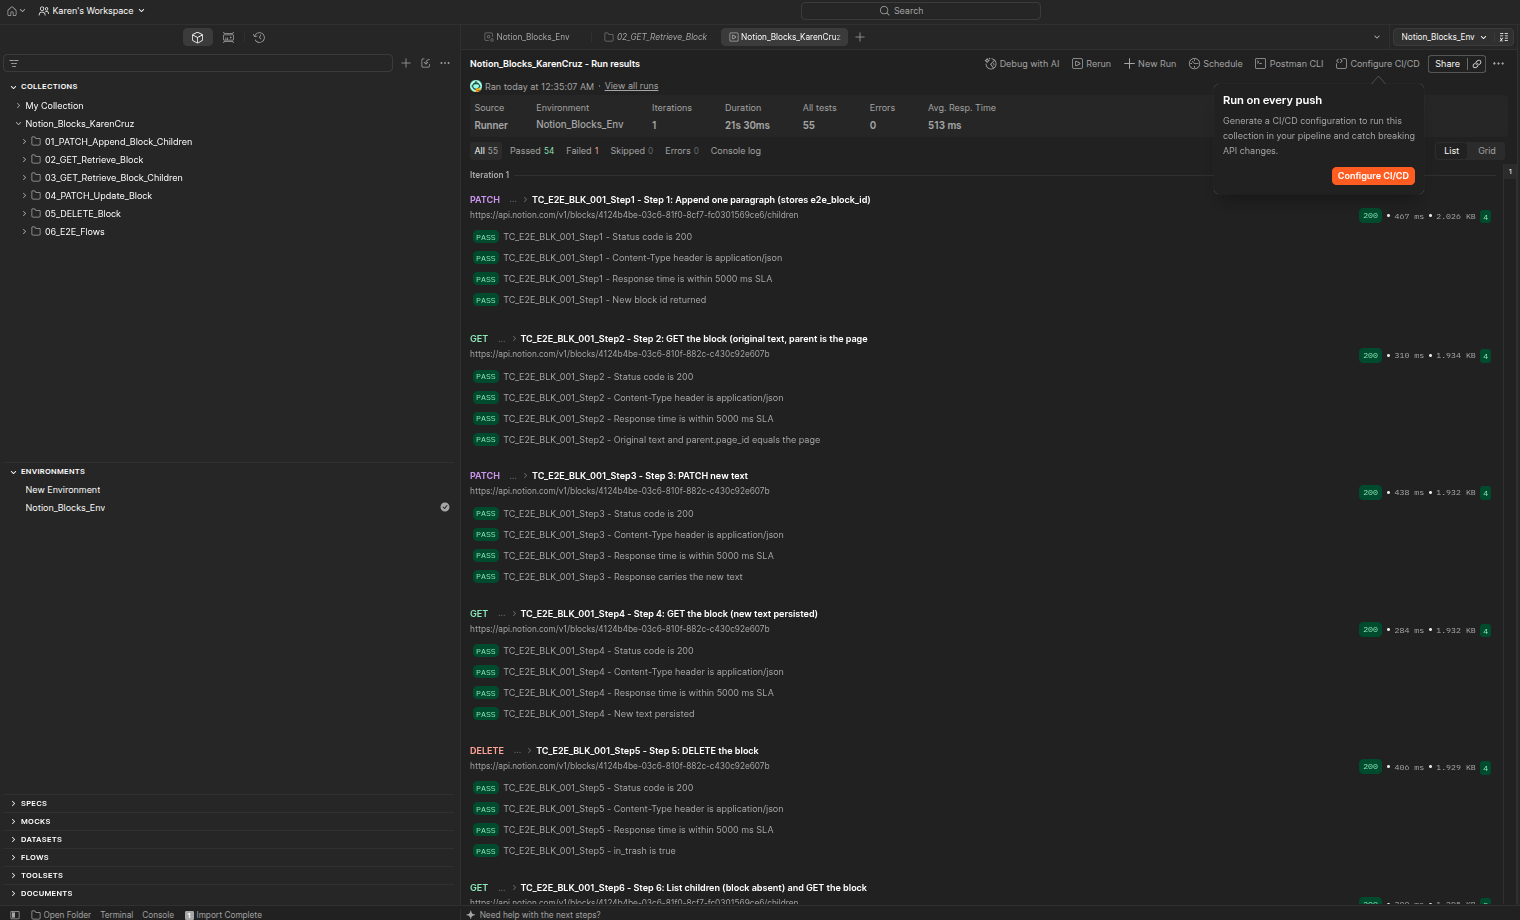
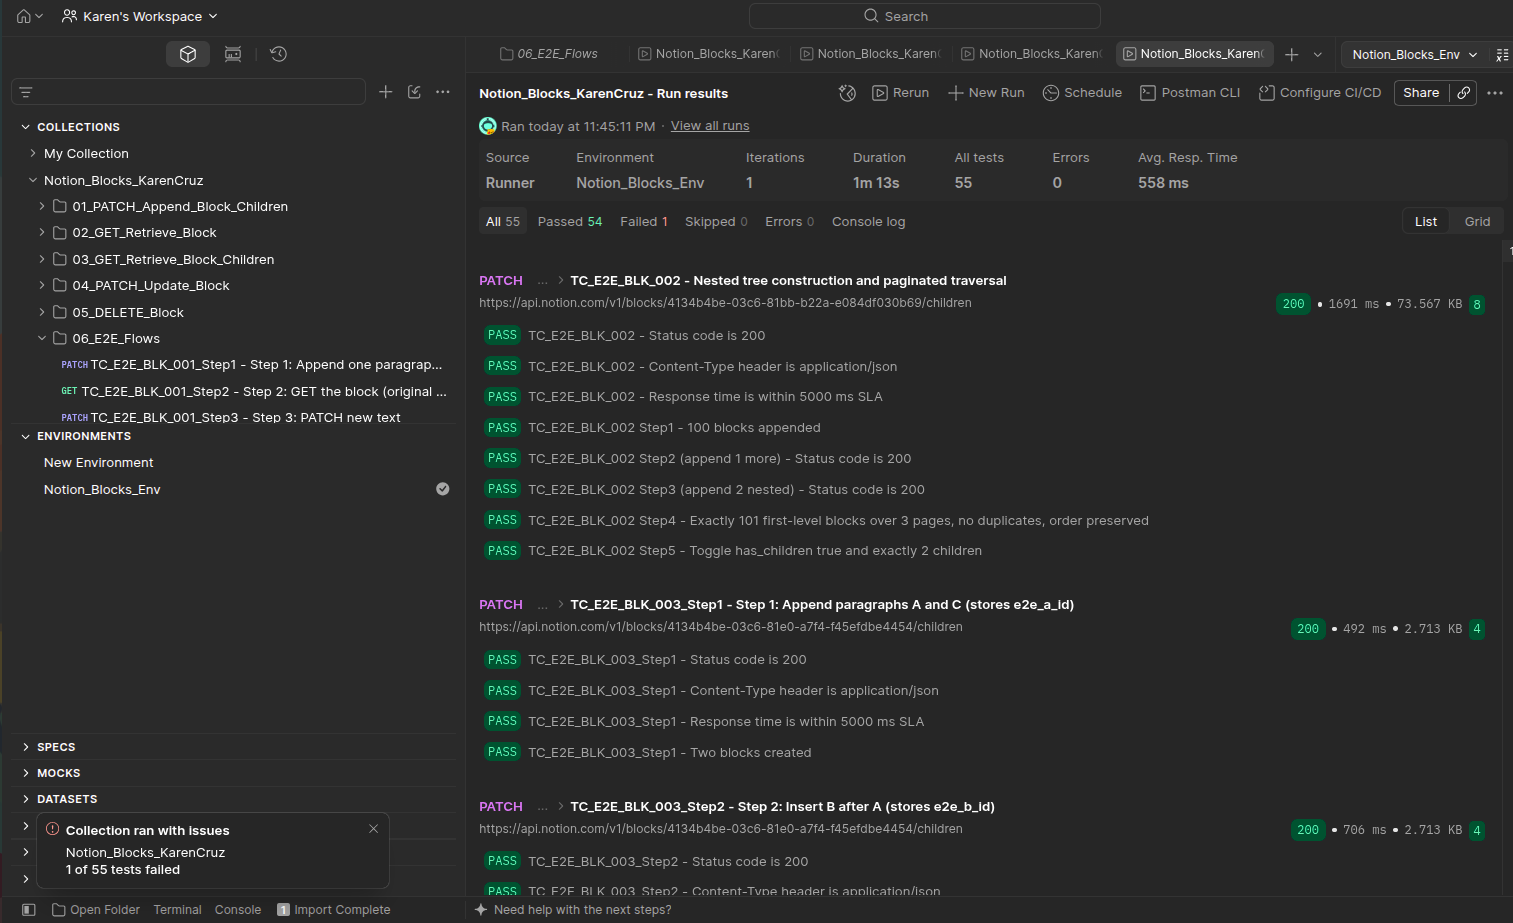
update

diff --git a/labs/lab02/Lab02_Grupo2.md b/labs/lab02/Lab02_Grupo2.md
@@ -631,25 +631,42 @@ The collection [`Lab02_Grupo2_Valentina_CRUD.postman_collection.json`](./postman
 
 ---
 
+<!-- ===================================================================== SECCION 1 — ACTIVITY #2 (reemplaza el bloque "Karen Ivonne Cruz Alvarez — Module: [Pending Implementation]") ===================================================================== -->
+Karen Ivonne Cruz Alvarez — Module: Blocks
 
-#### Karen Ivonne Cruz Alvarez — Module: Blocks
+All 72 test cases designed in Laboratory 01 (KarenCruzTests.md — 68 endpoint test cases across the five Blocks endpoints plus 4 multi-step E2E scenarios, identified as TC_BLK_* and TC_E2E_BLK_*) were implemented in Postman inside postman/karen_cruz/Notion_Blocks_KarenCruz.postman_collection.json (paired with Notion_Blocks_Env.postman_environment.json), resulting in 81 executable HTTP requests (one per test case, except TC_E2E_BLK_001 and TC_E2E_BLK_003, which are chained across 6 and 5 sequential requests), each named TC_ID - <description>. Every request verifies the response in several layers: status code, Content-Type header, response time (SLA), response body / error contract, and data integrity (a follow-up GET that confirms the change was really stored or not applied).
 
-All **72 test cases** designed in Laboratory 01 (`KarenCruzTests.md` — 68 endpoint test cases across the five `Blocks` endpoints plus 4 multi-step E2E scenarios, identified as `TC_BLK_*` and `TC_E2E_BLK_*`) were implemented in Postman inside [`postman/karen_cruz/Notion_Blocks_KarenCruz.postman_collection.json`](./postman/karen_cruz/Notion_Blocks_KarenCruz.postman_collection.json) (paired with [`Notion_Blocks_Env.postman_environment.json`](./postman/karen_cruz/Notion_Blocks_Env.postman_environment.json)), resulting in **81 executable HTTP requests** (one per test case, except `TC_E2E_BLK_001` and `TC_E2E_BLK_003`, which are chained across 6 and 5 sequential requests), each named `TC_ID - <description>`. Every request verifies the response in several layers: status code, `Content-Type` header, response time (SLA), response body / error contract, and data integrity (a follow-up `GET` that confirms the change was really stored or not applied).
+Lab 01 Suite / Endpoint	Implemented Test Case IDs	Req. Count	Multi-Layer pm.test() Verifications Implemented
+PATCH /v1/blocks/{block_id}/children
+(01_PATCH_Append_Block_Children)	TC_BLK_APP_001 – TC_BLK_APP_018	18	Status: 200, 400, 401, 403, 404, 429.
+Headers & SLA: Content-Type: application/json, responseTime < 5000 ms, Retry-After on 429.
+Body / Schema: object === "list", results[] length equal to blocks sent (100 accepted, 101 rejected), block type and order preserved, parent.page_id, has_children on nested toggles, rich_text content (2000 vs 2001 chars) stored intact; error codes "validation_error", "object_not_found", "unauthorized", "restricted_resource", "missing_version", "invalid_json", "rate_limited".
+Data integrity: GET /v1/blocks/{id}/children shows the new blocks (or no new block after a rejected request).
+GET /v1/blocks/{block_id}
+(02_GET_Retrieve_Block)	TC_BLK_GET_001 – TC_BLK_GET_011	11	Status: 200, 400, 401, 403, 404.
+Headers & SLA: application/json, < 5000 ms.
+Body / Schema: object === "block", id equality, 32-char compact id normalized to 36-char hyphenated, type, parent, boolean has_children (without embedded children), ISO-8601 created_time / last_edited_time, in_trash; identical object_not_found for non-existent and non-shared blocks (no enumeration leak); nil UUID 404 vs 31/33-char 400.
+GET /v1/blocks/{block_id}/children
+(03_GET_Retrieve_Block_Children)	TC_BLK_CHL_001 – TC_BLK_CHL_014	14	Status: 200, 400, 401, 403, 404.
+Headers & SLA: application/json, < 5000 ms.
+Body / Schema: object === "list", type === "block", results[] bounds (=== 1 at page_size=1, === 100 at page_size=100), boolean has_more, next_cursor (null on leaf blocks), no duplicates or gaps across pages, parent.block_id of toggle children; out-of-range page_size (0, -1, 101) and malformed start_cursor rejected with "validation_error".
+PATCH /v1/blocks/{block_id}
+(04_PATCH_Update_Block)	TC_BLK_UPD_001 – TC_BLK_UPD_014	14	Status: 200, 400, 401, 403, 404.
+Headers & SLA: application/json, < 5000 ms.
+Body / Schema: same id, updated rich_text, to_do.checked toggled, in_trash true/false round trip, last_edited_time updated; mismatched payload type, non-boolean checked, trashed block and 2001-char content rejected; error codes "validation_error", "invalid_json", "missing_version", "restricted_resource".
+Data integrity: a failed update leaves the block unchanged (verified with GET).
+DELETE /v1/blocks/{block_id}
+(05_DELETE_Block)	TC_BLK_DEL_001 – TC_BLK_DEL_011	11	Status: 200, 400, 401, 403, 404.
+Headers & SLA: application/json, < 5000 ms.
+Body / Schema: object === "block", id equality, in_trash === true, deterministic (never 500) response on repeated deletion and nil UUID; restore through PATCH {"in_trash": false} returns original content.
+Data integrity: the deleted block no longer appears in the parent's children list; rejected deletions leave the block active.
+Chained & E2E Flows
+(06_E2E_Flows)	TC_E2E_BLK_001 – TC_E2E_BLK_004	13	Cross-request state parity between append, retrieve, update, delete and restore; 101 first-level blocks collected across 3 pages with no duplicates; nested toggle with exactly 2 children; insertion order A, B, C → A, C → A, B, C using after; read-only token allowed on GET but 403 restricted_resource on every write, with content unchanged.
 
-| Lab 01 Suite / Endpoint | Implemented Test Case IDs | Req. Count | Multi-Layer `pm.test()` Verifications Implemented |
-|-------------------------|---------------------------|------------|---------------------------------------------------|
-| **`PATCH /v1/blocks/{block_id}/children`**<br>(`01_PATCH_Append_Block_Children`) | `TC_BLK_APP_001` – `TC_BLK_APP_018` | 18 | **Status:** `200`, `400`, `401`, `403`, `404`, `429`.<br>**Headers & SLA:** `Content-Type: application/json`, `responseTime < 5000 ms`, `Retry-After` on `429`.<br>**Body / Schema:** `object === "list"`, `results[]` length equal to blocks sent (`100` accepted, `101` rejected), block `type` and order preserved, `parent.page_id`, `has_children` on nested toggles, `rich_text` content (`2000` vs `2001` chars) stored intact; error codes `"validation_error"`, `"object_not_found"`, `"unauthorized"`, `"restricted_resource"`, `"missing_version"`, `"invalid_json"`, `"rate_limited"`.<br>**Data integrity:** `GET /v1/blocks/{id}/children` shows the new blocks (or no new block after a rejected request). |
-| **`GET /v1/blocks/{block_id}`**<br>(`02_GET_Retrieve_Block`) | `TC_BLK_GET_001` – `TC_BLK_GET_011` | 11 | **Status:** `200`, `400`, `401`, `403`, `404`.<br>**Headers & SLA:** `application/json`, `< 5000 ms`.<br>**Body / Schema:** `object === "block"`, `id` equality, 32-char compact id normalized to 36-char hyphenated, `type`, `parent`, boolean `has_children` (without embedded `children`), ISO-8601 `created_time` / `last_edited_time`, `in_trash`; identical `object_not_found` for non-existent and non-shared blocks (no enumeration leak); nil UUID `404` vs 31/33-char `400`. |
-| **`GET /v1/blocks/{block_id}/children`**<br>(`03_GET_Retrieve_Block_Children`) | `TC_BLK_CHL_001` – `TC_BLK_CHL_014` | 14 | **Status:** `200`, `400`, `401`, `403`, `404`.<br>**Headers & SLA:** `application/json`, `< 5000 ms`.<br>**Body / Schema:** `object === "list"`, `type === "block"`, `results[]` bounds (`=== 1` at `page_size=1`, `=== 100` at `page_size=100`), boolean `has_more`, `next_cursor` (`null` on leaf blocks), no duplicates or gaps across pages, `parent.block_id` of toggle children; out-of-range `page_size` (`0`, `-1`, `101`) and malformed `start_cursor` rejected with `"validation_error"`. |
-| **`PATCH /v1/blocks/{block_id}`**<br>(`04_PATCH_Update_Block`) | `TC_BLK_UPD_001` – `TC_BLK_UPD_014` | 14 | **Status:** `200`, `400`, `401`, `403`, `404`.<br>**Headers & SLA:** `application/json`, `< 5000 ms`.<br>**Body / Schema:** same `id`, updated `rich_text`, `to_do.checked` toggled, `in_trash` true/false round trip, `last_edited_time` updated; mismatched payload type, non-boolean `checked`, trashed block and `2001`-char content rejected; error codes `"validation_error"`, `"invalid_json"`, `"missing_version"`, `"restricted_resource"`.<br>**Data integrity:** a failed update leaves the block unchanged (verified with `GET`). |
-| **`DELETE /v1/blocks/{block_id}`**<br>(`05_DELETE_Block`) | `TC_BLK_DEL_001` – `TC_BLK_DEL_011` | 11 | **Status:** `200`, `400`, `401`, `403`, `404`.<br>**Headers & SLA:** `application/json`, `< 5000 ms`.<br>**Body / Schema:** `object === "block"`, `id` equality, `in_trash === true`, deterministic (never `500`) response on repeated deletion and nil UUID; restore through `PATCH {"in_trash": false}` returns original content.<br>**Data integrity:** the deleted block no longer appears in the parent's `children` list; rejected deletions leave the block active. |
-| **Chained & E2E Flows**<br>(`06_E2E_Flows`) | `TC_E2E_BLK_001` – `TC_E2E_BLK_004` | 13 | Cross-request state parity between append, retrieve, update, delete and restore; `101` first-level blocks collected across 3 pages with no duplicates; nested toggle with exactly `2` children; insertion order `A, B, C` → `A, C` → `A, B, C` using `after`; read-only token allowed on `GET` but `403 restricted_resource` on every write, with content unchanged. |
+Every request script starts with a shared helper prelude (call() wrapper over pm.sendRequest throttled to stay under Notion's ~3 requests/second, block builders such as para() / toggle(), sandbox() / cleanup(), and the assertion helpers std(), isErr() and errResp()). The two scripts below show the case-specific part.
 
-Every request script starts with a shared helper prelude (`call()` wrapper over `pm.sendRequest` throttled to stay under Notion's `~3 requests/second`, block builders such as `para()` / `toggle()`, `sandbox()` / `cleanup()`, and the assertion helpers `std()`, `isErr()` and `errResp()`). The two scripts below show the case-specific part.
-
-##### Representative Postman Script 1 — Negative & Error Contract Validation (`Blocks` Module: `TC_BLK_GET_008`)
-
-```javascript
+Representative Postman Script 1 — Negative & Error Contract Validation (Blocks Module: TC_BLK_GET_008)
+javascript
 // [Pre-request Script] Intentionally send a syntactically invalid block_id
 // Request: GET {{NOTION_BASE_URL}}/v1/blocks/{{target_id}}
 setTarget("invalid-block-id-123");
@@ -668,11 +685,8 @@ const isErr = (name, body, status, code) => pm.test(name, () => {
 const errResp = (id, status, code) => { std(id, status); isErr(`${id} - Error contract matches Notion error payload (${code})`, J(pm.response), status, code); };
 
 errResp("TC_BLK_GET_008", 400, "validation_error");
-```
-
-##### Representative Postman Script 2 — Preconditions, Data Integrity & Cleanup (`Blocks` Module: `TC_BLK_APP_001`)
-
-```javascript
+Representative Postman Script 2 — Preconditions, Data Integrity & Cleanup (Blocks Module: TC_BLK_APP_001)
+javascript
 // [Pre-request Script] Precondition created by API: an isolated sandbox page under PAGE_ID
 const sb = await sandbox("APP_001"); setTarget(sb); setBody({ children: [para("Hello")] });
 
@@ -692,10 +706,12 @@ pm.test(`${ID} - [Data integrity] GET returns the same block id and text`, () =>
 });
 // CLEANUP: Notion has no permanent delete, so the sandbox page (and its blocks) goes to the trash
 await cleanup();
-```
 
+Karen Cruz - Test Results of the Blocks module (PASS badges)
 ![Karen Cruz - Test Results of the Blocks module (PASS badges)](./caps/Karen/actividad2-1.png)
 
+
+Karen Cruz - Test Results of a negative / boundary contract check
 ![Karen Cruz - Test Results of a negative / boundary contract check](./caps/Karen/actividad2-2.png)
 
 ---
@@ -2001,18 +2017,16 @@ Executed against `Act1_Notion_Env`: 13 requests executed, **30 tests passed, 0 f
 
 ---
 
-#### Karen Ivonne Cruz Alvarez — Automated Execution Summary (`Blocks`)
+Karen Ivonne Cruz Alvarez — Automated Execution Summary (Blocks)
 
 Karen's collection follows the team conventions defined in section 4.1:
 
-| Convention Dimension | How it is applied in `Notion_Blocks_KarenCruz` |
-|----------------------|------------------------------------------------|
-| **Folder hierarchy** | One folder per endpoint (`01_PATCH_Append_Block_Children`, `02_GET_Retrieve_Block`, `03_GET_Retrieve_Block_Children`, `04_PATCH_Update_Block`, `05_DELETE_Block`) and `06_E2E_Flows` last. |
-| **Request ordering** | Inside every endpoint folder: `Happy Path` → `Negative` → `Boundary`, following the numeric order of `KarenCruzTests.md`. Destructive and permission flows live in the final `06_E2E_Flows` folder. |
-| **Naming** | Request name `TC_ID - <description>`. Assertions prefixed with `<TC_ID> - <Check>`; data integrity checks start with `[Data integrity]`. Static config and secrets in `UPPER_SNAKE_CASE` (`NOTION_TOKEN`), dynamic chained variables in `lower_snake_case` (`created_block_id`). |
-| **Execution isolation** | Each case creates its own blocks and trashes them at the end, so any case can run alone or in any folder selection. |
-
-```bash
+Convention Dimension	How it is applied in Notion_Blocks_KarenCruz
+Folder hierarchy	One folder per endpoint (01_PATCH_Append_Block_Children, 02_GET_Retrieve_Block, 03_GET_Retrieve_Block_Children, 04_PATCH_Update_Block, 05_DELETE_Block) and 06_E2E_Flows last.
+Request ordering	Inside every endpoint folder: Happy Path → Negative → Boundary, following the numeric order of KarenCruzTests.md. Destructive and permission flows live in the final 06_E2E_Flows folder.
+Naming	Request name TC_ID - <description>. Assertions prefixed with <TC_ID> - <Check>; data integrity checks start with [Data integrity]. Static config and secrets in UPPER_SNAKE_CASE (NOTION_TOKEN), dynamic chained variables in lower_snake_case (created_block_id).
+Execution isolation	Each case creates its own blocks and trashes them at the end, so any case can run alone or in any folder selection.
+bash
 # Full automated suite execution with CLI and HTML dashboard report
 npx newman run postman/karen_cruz/Notion_Blocks_KarenCruz.postman_collection.json \
   -e postman/karen_cruz/Notion_Blocks_Env.postman_environment.json \
@@ -2027,22 +2041,25 @@ npx newman run postman/karen_cruz/Notion_Blocks_KarenCruz.postman_collection.jso
   --folder "03_GET_Retrieve_Block_Children" \
   --delay-request 400 \
   --timeout-script 600000
-```
 
-The delay is `400 ms` between requests, and the helper calls made from the scripts add their own `340 ms` pause (`--delay-request` does not apply to `pm.sendRequest`), to stay below Notion's `~3 requests/second` limit, and `--timeout-script 600000` is needed because some cases create `100` and `101` blocks (`TC_BLK_CHL_013`, `TC_E2E_BLK_002`).
+The delay is 400 ms between requests, and the helper calls made from the scripts add their own 340 ms pause (--delay-request does not apply to pm.sendRequest), to stay below Notion's ~3 requests/second limit, and --timeout-script 600000 is needed because some cases create 100 and 101 blocks (TC_BLK_CHL_013, TC_E2E_BLK_002).
 
-| Execution Metric | Value / Specification |
-|------------------|-----------------------|
-| **Collection File** | [`postman/karen_cruz/Notion_Blocks_KarenCruz.postman_collection.json`](./postman/karen_cruz/Notion_Blocks_KarenCruz.postman_collection.json) |
-| **Environment File** | [`postman/karen_cruz/Notion_Blocks_Env.postman_environment.json`](./postman/karen_cruz/Notion_Blocks_Env.postman_environment.json) |
-| **Lab 01 Test Cases Covered** | **72 Test Cases** (`18` append + `11` retrieve + `14` children + `14` update + `11` delete + `4` E2E) |
-| **Total Automated Requests** | **81 HTTP Requests** (`18` + `11` + `14` + `14` + `11` endpoint requests and `13` in `06_E2E_Flows`) |
-| **Total `pm.test()` Assertions** | **[COMPLETAR: numero que muestra el Runner]** |
-| **Passed / Failed / Skipped** | **[COMPLETAR]** (skipped = cases whose optional environment variable is empty) |
-| **Runner Configuration** | Iterations: `1` \| Inter-request Delay: `400 ms` \| Persist Variables: `Enabled` |
+Execution Metric	Value / Specification
+Collection File	postman/karen_cruz/Notion_Blocks_KarenCruz.postman_collection.json
+Environment File	postman/karen_cruz/Notion_Blocks_Env.postman_environment.json
+Lab 01 Test Cases Covered	72 Test Cases (18 append + 11 retrieve + 14 children + 14 update + 11 delete + 4 E2E)
+Total Automated Requests	81 HTTP Requests (18 + 11 + 14 + 14 + 11 endpoint requests and 13 in 06_E2E_Flows)
+Total pm.test() Assertions	[COMPLETAR: numero que muestra el Runner]
+Passed / Failed / Skipped	[COMPLETAR] (skipped = cases whose optional environment variable is empty)
+Runner Configuration	Iterations: 1 | Inter-request Delay: 400 ms | Persist Variables: Enabled
 
+Finding from the first execution against the real API (TC_BLK_APP_017): the Lab 01 expected result said that toggle → toggle → paragraph (3 blocks deep) must be rejected with 400 validation_error, but Notion answered 200 OK and created the blocks. The Notion reference for Append block children states that up to two levels of nesting are allowed in a single request, which means the top-level block plus two nested levels (3 blocks deep) is valid. The test case was corrected: toggle → toggle → paragraph (two nested levels) is now the accepted case (200 OK), and toggle → toggle → toggle → paragraph (three nested levels) is the rejected boundary (400 validation_error). This is a defect in the Lab 01 test design found by the automation, not in the API.
+
+Karen Cruz - Postman Collection Runner summary
 ![Karen Cruz - Postman Collection Runner summary](./caps/Karen/actividad4-1.png)
 
+
+Karen Cruz - Newman CLI terminal output
 ![Karen Cruz - Newman CLI terminal output](./caps/Karen/actividad4-2.png)
 
 
